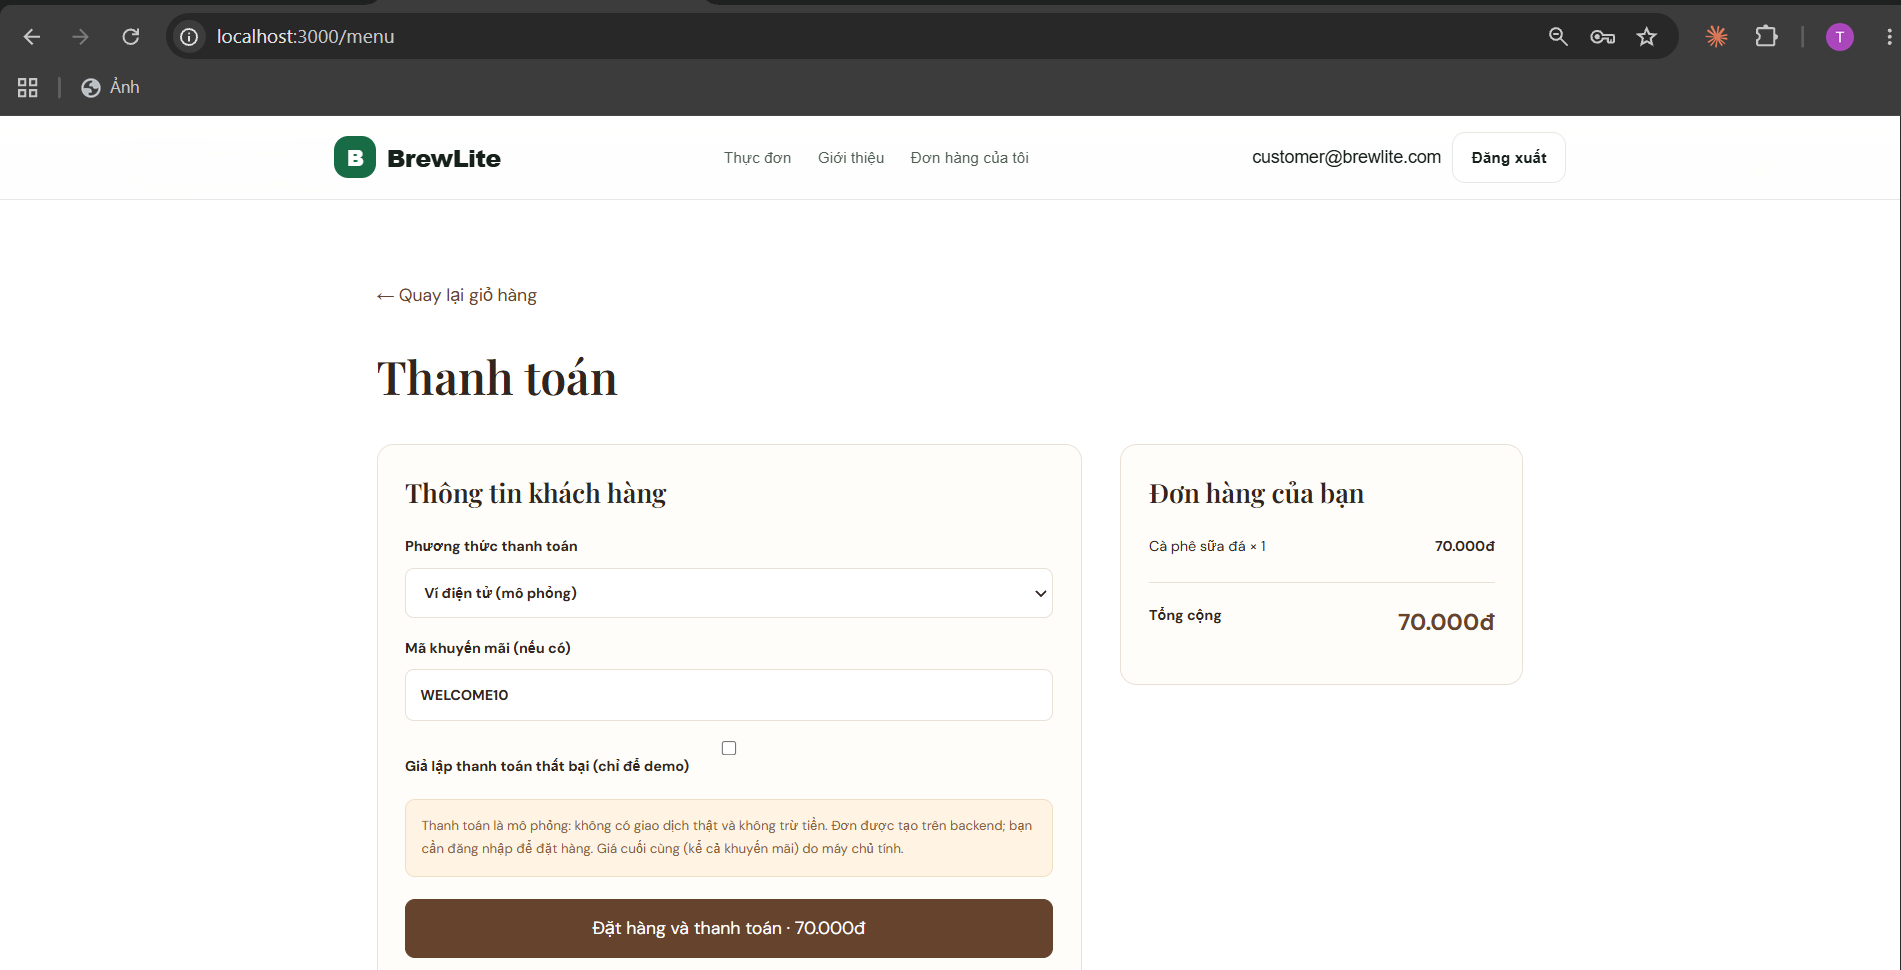
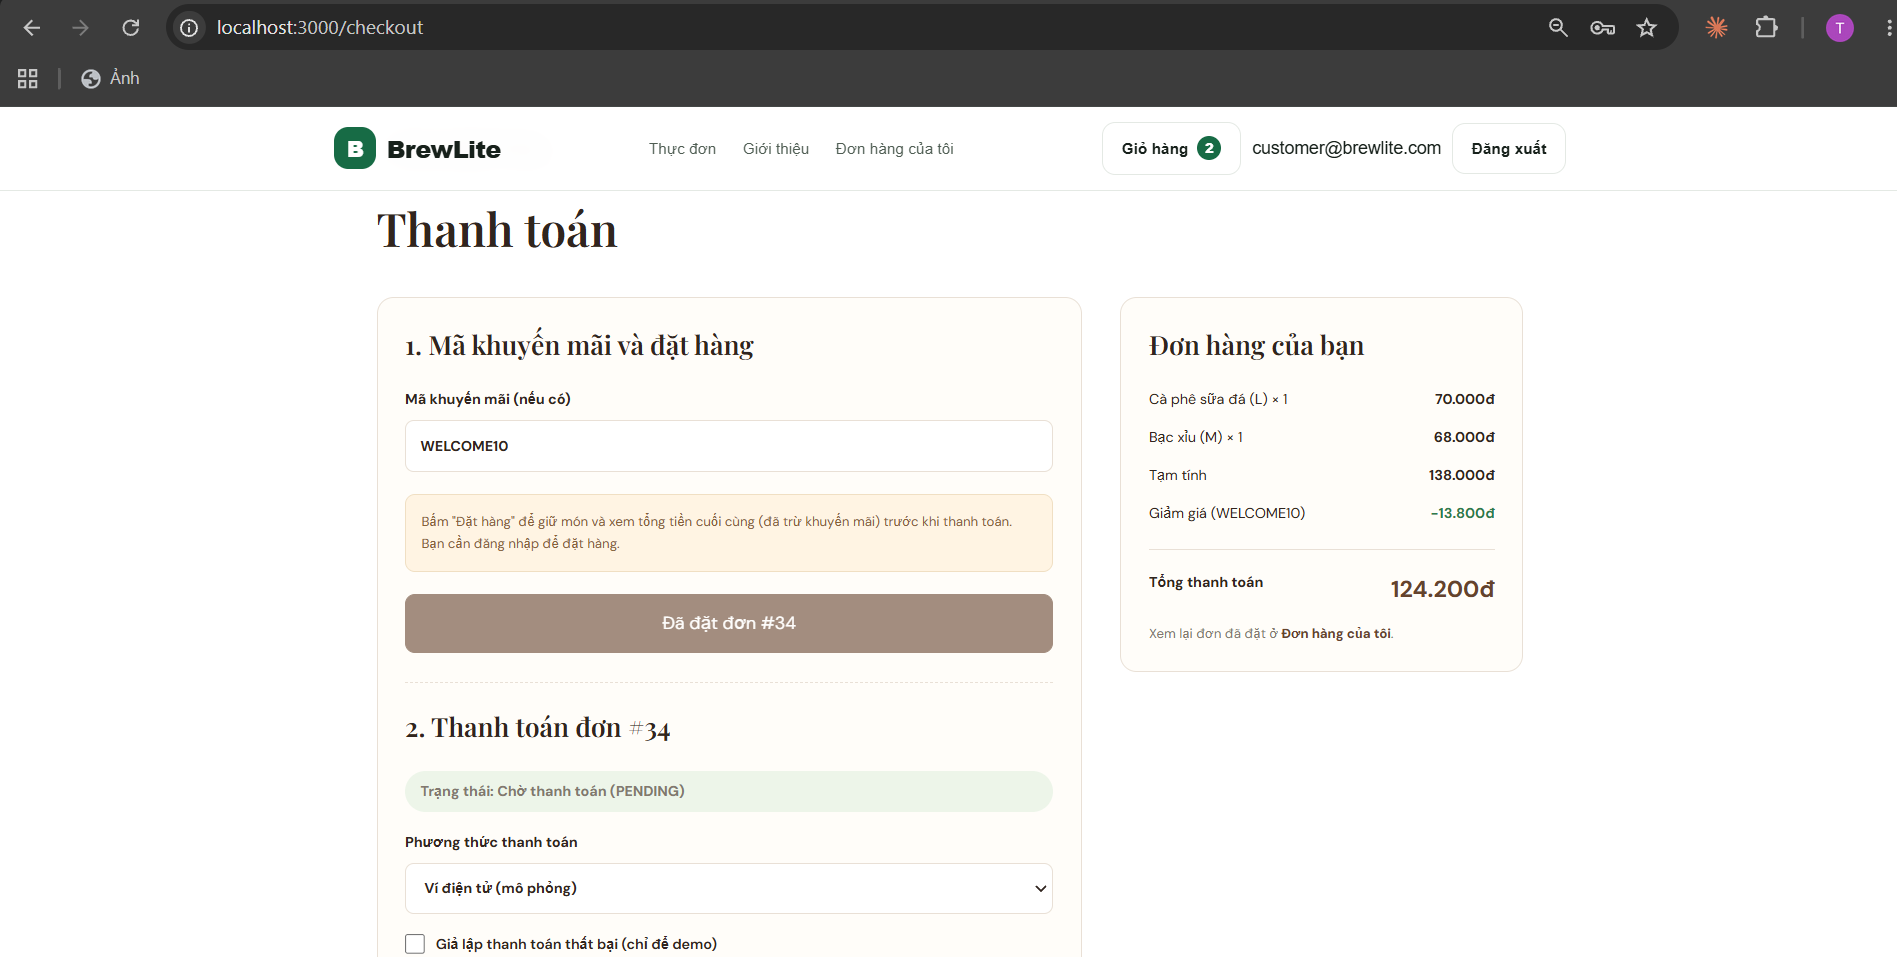
docs: cập nhật tài liệu theo bản hoàn thiện ngày 13/11
- Báo cáo: 33 test tích hợp, mục "Rà soát và hoàn thiện trước khi nộp",
  ảnh luồng chính chụp lại từ bản mới (giỏ hàng, thanh toán, lỗi, xác nhận,
  lịch sử) và ảnh kết quả test 22/33.
- README Mục 8.3, tiến độ, phân công ghi lại đợt rà soát.

Claude-Session: https://claude.ai/code/session_01RJZGdjVTaTCkUfHbhmeiy9

diff --git a/docs/report/main.tex b/docs/report/main.tex
@@ -186,7 +186,7 @@ Frontend & Next.js (mobile-first), giỏ hàng, đăng nhập, thanh toán, lị
 Backend & NestJS, class-validator, JWT, bcrypt \\
 Cơ sở dữ liệu & PostgreSQL 16, Prisma 7 (migration, seed) \\
 Kiểm thử, vận hành & Vitest, Supertest (PostgreSQL thật); Docker Compose \\
-Mã nguồn & \url{https://github.com/tthan-prog/BrewLite-AS1} (repository riêng của Assignment 1); tag \texttt{assign1-original} (commit \texttt{e7a627a}): mã hoàn tất 23/10/2026; tag \texttt{assign1-final} (commit \texttt{9581384}): thêm bản sửa ngày 07/11 để \texttt{docker compose build} chạy được trên bản clone sạch \\
+Mã nguồn & \url{https://github.com/tthan-prog/BrewLite-AS1} (repository riêng của Assignment 1); tag \texttt{assign1-original} (commit \texttt{e7a627a}): mã hoàn tất 23/10/2026; tag \texttt{assign1-final} (commit \texttt{9581384}): thêm bản sửa ngày 07/11 để \texttt{docker compose build} chạy được trên bản clone sạch; bản nộp: nhánh \texttt{main}, gồm bản hoàn thiện sau rà soát ngày 13/11 (mục~\ref{sec:rasoat}) \\
 Bản chạy & Chạy cục bộ bằng \texttt{docker compose up --build} (frontend cổng 3000, backend 3001, PostgreSQL 5432), hướng dẫn trong \texttt{README.md} \\ \bottomrule
 \end{tabular}
 \end{center}
@@ -297,11 +297,11 @@ Bốn nghiệp vụ: (1) máy trạng thái đơn (PENDING, PAID, PREPARING, REA
 \toprule
 \textbf{Mức} & \textbf{Công cụ} & \textbf{Số test} & \textbf{Kết quả} \\ \midrule
 Unit & Vitest & 22 & 22/22 đạt \\
-Tích hợp (PostgreSQL thật) & Vitest + Supertest & 32 & 32/32 đạt \\
+Tích hợp (PostgreSQL thật) & Vitest + Supertest & 33 & 33/33 đạt \\
 \bottomrule
 \end{tabular}
 \end{center}
-Chạy lại ngày 13/11/2026 trên tag \texttt{assign1-final} bằng \texttt{npm test} và \texttt{npm run test:e2e} trong thư mục \texttt{backend}, CSDL PostgreSQL chạy bằng Docker Compose (ảnh kết quả: Hình~\ref{fig:testunit} và~\ref{fig:teste2e}, phụ lục). Kết quả khớp số liệu nhóm ghi ngày 23/10.
+Chạy ngày 13/11/2026 bằng \texttt{npm test} và \texttt{npm run test:e2e} trong thư mục \texttt{backend}, CSDL PostgreSQL chạy bằng Docker Compose (ảnh kết quả: Hình~\ref{fig:testunit} và~\ref{fig:teste2e}, phụ lục). Tại tag \texttt{assign1-final} có 22 unit và 32 test tích hợp, khớp số liệu nhóm ghi ngày 23/10; bản hoàn thiện ngày 13/11 thêm 1 test tích hợp (lưu mức đường/đá, chi tiết đơn) nên có 33 test.
 
 \subsection{Ba test bắt buộc của Task 10}
 \begin{itemize}\setlength{\itemsep}{0pt}\setlength{\parskip}{0pt}
@@ -317,7 +317,10 @@ Chạy lại ngày 13/11/2026 trên tag \texttt{assign1-final} bằng \texttt{np
 \textbf{Retrospective.} Làm tốt: theo đường găng và có test chứng minh nghiệp vụ Task 10; README và Docker giúp chạy lại dễ. Cần cải thiện: bắt đầu muộn (Sprint 1 trễ 9 điểm); phân bố commit giữa các thành viên chưa đều (đến khi mã Assignment 1 hoàn tất ngày 23/10, commit \texttt{e7a627a}: A 36, B 5, C 1, D 1 trên 43 commit; A tích hợp phần lớn mã); nghiệm thu chéo mới ghi trong tài liệu nhóm, chưa có Approve trên từng Pull Request.
 
 %%%%%%%%%%%%%%%%%%%%%%%%%%%%%%%%%
-\textbf{Backlog sau:} giao diện barista; cổng thanh toán thật; lưu lựa chọn đường/đá vào đơn.
+\textbf{Backlog sau:} giao diện barista; cổng thanh toán thật; cho khách tự hủy đơn chưa thanh toán.
+
+\subsection{Rà soát và hoàn thiện trước khi nộp (13/11/2026)}\label{sec:rasoat}
+Trước khi nộp, nhóm thử lại toàn bộ luồng như một khách hàng và sửa các lỗi tìm thấy trên nhánh \texttt{fix/as1-review} (3 commit): (1) giỏ hàng mất khi đăng nhập hoặc tải lại trang, chưa đúng yêu cầu ``lưu state'' của Task 5, nay dùng React Context và localStorage, đăng nhập xong quay về trang thanh toán; (2) nút thanh toán ghi giá chưa trừ khuyến mãi, nay thanh toán hai bước, khách xem tạm tính, giảm giá, tổng tiền do máy chủ tính rồi mới trả; (3) lỗi máy chủ hiện tiếng Anh và cùng màu thông báo thành công, nay là câu tiếng Việt, nền đỏ; (4) hai thanh điều hướng chồng nhau, giỏ hàng và thanh toán không chuyển qua lại được, nay là trang riêng \texttt{/cart}, \texttt{/checkout} và có thanh tab dưới cùng trên điện thoại; (5) mức đường/đá được lưu vào đơn (migration mới), trang xác nhận và lịch sử hiện danh sách món; (6) menu báo hết hàng, còn ít. Sau khi sửa: 22 unit và 33 test tích hợp đạt, lint và build đạt.
 
 {\small
 \begin{thebibliography}{80}
@@ -338,7 +341,7 @@ Tài liệu chính thức: NestJS (docs.nestjs.com), Next.js (nextjs.org/docs), 
 \clearpage
 \appendix
 \section{Ảnh minh họa luồng chính}
-Ảnh chụp ngày 13/11/2026 từ mã nguồn tag \texttt{assign1-final} chạy cục bộ bằng Docker Compose, dữ liệu mẫu từ seed, tài khoản \texttt{customer@brewlite.com}. Mã đơn bắt đầu từ 25 vì các lần chạy test trước đó đã dùng các mã nhỏ hơn (PostgreSQL không đặt lại bộ đếm khóa chính khi xóa dữ liệu).
+Ảnh chụp ngày 13/11/2026 từ nhánh \texttt{main} (bản hoàn thiện sau rà soát) chạy cục bộ bằng Docker Compose, dữ liệu mẫu từ seed, tài khoản \texttt{customer@brewlite.com}. Mã đơn là 34 vì các lần chạy test trước đó đã dùng các mã nhỏ hơn (PostgreSQL không đặt lại bộ đếm khóa chính khi xóa dữ liệu).
 
 \begin{figure}[h!]
 \centering
@@ -349,31 +352,27 @@ Tài liệu chính thức: NestJS (docs.nestjs.com), Next.js (nextjs.org/docs), 
 \begin{center}
 \begin{minipage}[t]{0.48\textwidth}\centering
 \includegraphics[width=\textwidth]{figures/ev03-gio-hang.png}
-\captionof{figure}{Giỏ hàng: 1 ly Cà phê sữa đá size L, 4 topping, tạm tính 70.000đ}
+\captionof{figure}{Giỏ hàng (\texttt{/cart}): 2 món với size, mức đường/đá, topping; tạm tính 138.000đ}
 \end{minipage}\hfill
 \begin{minipage}[t]{0.48\textwidth}\centering
 \includegraphics[width=\textwidth]{figures/ev04-thanh-toan-welcome10.png}
-\captionof{figure}{Thanh toán: chọn Ví điện tử (mô phỏng), nhập mã WELCOME10}
+\captionof{figure}{Thanh toán (\texttt{/checkout}): đặt đơn \#34 với WELCOME10, máy chủ tính giảm 13.800đ, tổng 124.200đ}
 \end{minipage}
 
 \vspace{4mm}
-\begin{minipage}[t]{0.48\textwidth}\centering
-\includegraphics[width=\textwidth]{figures/ev05-lich-su-don25-paid.png}
-\captionof{figure}{Đơn \#25 ở trạng thái PAID, tổng 63.000đ (máy chủ đã giảm 10\% theo WELCOME10)}
-\end{minipage}\hfill
 \begin{minipage}[t]{0.48\textwidth}\centering
 \includegraphics[width=\textwidth]{figures/ev09-thanh-toan-that-bai.png}
-\captionof{figure}{Giả lập thanh toán lỗi: đơn \#26 PAYMENT\_FAILED, giỏ hàng được giữ nguyên}
+\captionof{figure}{Giả lập thanh toán lỗi: đơn \#34 PAYMENT\_FAILED, thông báo đỏ, giỏ hàng giữ nguyên}
+\end{minipage}\hfill
+\begin{minipage}[t]{0.48\textwidth}\centering
+\includegraphics[width=\textwidth]{figures/ev10-xac-nhan-don-paid.png}
+\captionof{figure}{Thử lại thành công: cùng đơn \#34 PAID; trang xác nhận có từng món, mức đường/đá, giảm giá}
 \end{minipage}
 
 \vspace{4mm}
 \begin{minipage}[t]{0.48\textwidth}\centering
-\includegraphics[width=\textwidth]{figures/ev10-thu-lai-don26-paid.png}
-\captionof{figure}{Thử lại thành công: cùng đơn \#26 chuyển sang PAID, 63.000đ}
-\end{minipage}\hfill
-\begin{minipage}[t]{0.48\textwidth}\centering
-\includegraphics[width=\textwidth]{figures/ev06-lich-su-2-don.png}
-\captionof{figure}{Lịch sử đơn chỉ có \#25 và \#26: thử lại không tạo đơn trùng}
+\includegraphics[width=\textwidth]{figures/ev06-lich-su.png}
+\captionof{figure}{Lịch sử đơn: chỉ có đơn \#34, thử lại không tạo đơn trùng}
 \end{minipage}
 \end{center}
 
@@ -385,8 +384,8 @@ Tài liệu chính thức: NestJS (docs.nestjs.com), Next.js (nextjs.org/docs), 
 
 \begin{figure}[h!]
 \centering
-\includegraphics[width=\textwidth]{figures/ev12-e2e-test-32.png}
-\caption{\label{fig:teste2e}Test tích hợp (\texttt{npm run test:e2e}, PostgreSQL thật): 2 tệp, 32/32 đạt}
+\includegraphics[width=\textwidth]{figures/ev12-e2e-test-33.png}
+\caption{\label{fig:teste2e}Test tích hợp (\texttt{npm run test:e2e}, PostgreSQL thật), nhánh \texttt{main} sau rà soát: 2 tệp, 33/33 đạt}
 \end{figure}
 
 \end{document}

diff --git a/README.md b/README.md
@@ -11,13 +11,14 @@ Bài tập lớn môn **Công nghệ Phần mềm**, Trường Đại học Sài
 | Hạng mục | Tình trạng |
 |---|---|
 | Assignment 1 (10 task) | **Hoàn thành code cả 10 task**, chạy đầu-cuối từ giao diện đến CSDL |
-| Kiểm thử | 22 unit test và 32 test tích hợp đạt (PostgreSQL thật); chạy lại ngày 13/11/2026 trên tag `assign1-final`: 22/22, 32/32 |
+| Kiểm thử | Nhánh `main` (sau rà soát 13/11/2026): 22 unit test và **33** test tích hợp đạt (PostgreSQL thật). Tại tag `assign1-final`: 22/22, 32/32 (chạy lại 13/11) |
 | Docker Compose | Chạy được 3 dịch vụ (db, backend, frontend); đã chạy thử trên Windows (Docker Desktop + WSL 2) |
 | Nghiệm thu chéo (điều kiện tính điểm) | **Đã nghiệm thu, cả 10 task đạt DoD** (xác nhận 23/10/2026, xem `docs/scrum/dod-nghiem-thu.md`) |
 | Bằng chứng Scrum | Product Backlog, 3 Sprint Backlog, Burndown, biên bản (`docs/scrum/`) |
 | Báo cáo | LaTeX tại `docs/report/` (cách biên dịch trong `docs/report/README.md`) |
 | Sprint 3 Review và Retrospective | Đã họp 25/10/2026 (`docs/scrum/minutes/06-sprint3-review-retro.md`) |
 | Mốc mã nguồn | Tag `assign1-original` (`e7a627a`, 23/10/2026); tag `assign1-final` (`9581384`, 07/11/2026: thêm `frontend/public/.gitkeep` để `docker compose build` chạy trên bản clone sạch) |
+| Rà soát và hoàn thiện | 13/11/2026, nhánh `fix/as1-review` gộp vào `main`: xem [Mục 8.3](#83-rà-soát-và-hoàn-thiện-ngày-13112026) |
 
 Chi tiết từng task ở [Mục 8](#8-api-và-tiến-độ-task).
 
@@ -132,7 +133,7 @@ brewlite/
 │   ├── Dockerfile
 │   └── package.json
 ├── frontend/                      # Next.js (App Router)
-│   └── src/app/                   # menu, login, register, orders/confirmation, orders/history
+│   └── src/app/                   # menu, cart, checkout, login, register, orders/confirmation, orders/history
 ├── docs/
 │   ├── team-agreement.md          # thỏa thuận nhóm
 │   ├── message-to-lecturer.md     # bản nháp tin nhắn 
@@ -305,7 +306,21 @@ Mọi route (trừ `/`, `/health`, `/products*`, `/toppings`, `/auth/register`, 
 | 9 | Xác nhận, lịch sử đơn, bàn giao | 3 | Hà Thiên Long (giao diện); Nguyễn Lê Nhựt Thắng (API, Docker, README) | Xong (`/orders/me`, trang xác nhận, Docker, README) | Đạt |
 | 10 | Nghiệp vụ nâng cao | 3 | Hồ Thiên Ngân (10b, 10c); Nguyễn Lê Nhựt Thắng (10a, 10d) | Xong (state machine, idempotency, tồn kho, khuyến mãi, điểm; test a, b, c) | Đạt |
 
-**Giới hạn đã biết:** thanh toán chỉ mô phỏng; không có giao diện barista; trường đường/đá trong giỏ chỉ hiển thị, chưa lưu vào đơn; migration của các bảng bổ sung viết tay, cần đối chiếu với Prisma khi đổi môi trường.
+**Giới hạn đã biết:** thanh toán chỉ mô phỏng; không có giao diện barista; khách chưa tự hủy được đơn chưa thanh toán (đơn PENDING vẫn giữ kho); migration của các bảng bổ sung viết tay, cần đối chiếu với Prisma khi đổi môi trường.
+
+### 8.3. Rà soát và hoàn thiện ngày 13/11/2026
+
+Trước khi nộp, nhóm rà lại 10 task và thử luồng như một khách hàng thật. Các lỗi tìm thấy được sửa trên nhánh `fix/as1-review` (3 commit), chạy lại 22 unit và 33 test tích hợp đạt:
+
+| Vấn đề tìm thấy | Cách sửa |
+|---|---|
+| Đăng nhập giữa lúc thanh toán hoặc tải lại trang thì mất giỏ hàng (Task 5 yêu cầu lưu state) | Giỏ hàng dùng React Context + localStorage; đăng nhập xong quay về trang thanh toán |
+| Nút thanh toán ghi giá chưa trừ khuyến mãi, khách bị trừ số tiền khác | Thanh toán hai bước: đặt đơn để máy chủ tính tạm tính, giảm giá, tổng tiền; khách xem rồi mới trả |
+| Lỗi máy chủ hiện tiếng Anh; thông báo lỗi cùng màu với thông báo thành công | Đổi sang câu tiếng Việt; lỗi nền đỏ |
+| Trang menu có hai thanh điều hướng; giỏ hàng, thanh toán không chuyển qua lại được | Một thanh điều hướng chung có giỏ hàng; giỏ hàng (`/cart`) và thanh toán (`/checkout`) là trang riêng; thêm thanh tab dưới cùng trên điện thoại |
+| Mức đường/đá không lưu vào đơn; xác nhận, lịch sử không có danh sách món | Thêm cột `sugar`, `ice` (migration `20261113000000_order_item_sugar_ice`); `GET /orders/:id`, `/orders/me` trả kèm tên món, topping; giao diện hiện chi tiết |
+| Menu không báo hết hàng | Hiện "Hết hàng", "Còn N ly"; không cho thêm quá tồn kho |
+| Trang chủ, đăng nhập còn chữ của giai đoạn phát triển | Viết lại nội dung cho khách hàng |
 
 Kết quả nghiệm thu chi tiết: `docs/scrum/dod-nghiem-thu.md`.
 
@@ -362,6 +377,8 @@ npm run build
 Test tích hợp chạy trên PostgreSQL thật, cần đã migrate và seed cùng `DATABASE_URL` và `JWT_SECRET` (ví dụ `docker compose up -d db`, rồi migrate và seed như Mục 6.3). Các test tự tạo dữ liệu riêng nhưng **không** nên chạy trên CSDL có dữ liệu thật.
 
 **Kết quả (23/10/2026, nhánh main):** 22 unit test và 32 test tích hợp đạt; build và lint backend sạch; lint và build frontend đạt.
+
+**Kết quả (13/11/2026, nhánh main sau rà soát):** 22 unit test và 33 test tích hợp đạt (thêm test lưu mức đường/đá và chi tiết đơn); lint, build backend và frontend đạt.
 
 **Ba test bắt buộc của Task 10:**
 

diff --git a/docs/phan-cong.md b/docs/phan-cong.md
@@ -19,6 +19,7 @@
 | Scrum Master: biên bản Sprint, Burndown | `docs/scrum/minutes/01–06`, `burndown-*.csv` | 14/10/2026 | 25/10/2026 | Hoàn thành | 100 | Biên bản 01–06 đã hoàn chỉnh (01/11) |
 | Nghiệm thu chéo Task 3, 4, 5, 6, 9 và Task 10 (10b, 10c) | Dòng nghiệm thu trong `dod-nghiem-thu.md` | 23/10/2026 | 24/10/2026 | Đạt (23/10) | 100 | Chạy Docker |
 | Báo cáo LaTeX Assignment 1 (2–3 trang, theo mẫu SGU) | `docs/report/main.tex` | 29/10/2026 | 13/11/2026 | Nội dung đã hoàn chỉnh (3 trang nội dung + phụ lục); đã điền MSSV; chờ build PDF cuối | 95 `[ước lượng]` | Nộp 15/11/2026 |
+| Rà soát và hoàn thiện trước khi nộp | Nhánh `fix/as1-review`: giỏ hàng lưu state, thanh toán hai bước, lỗi tiếng Việt, lưu mức đường/đá, trang `/cart`, `/checkout`, thanh tab điện thoại; 33 test tích hợp | 13/11/2026 | 13/11/2026 | Hoàn thành | 100 | Thử tay 6 bước luồng đặt hàng đạt |
 
 ## B. Hồ Thiên Ngân (Backend: dữ liệu, đơn hàng)
 
